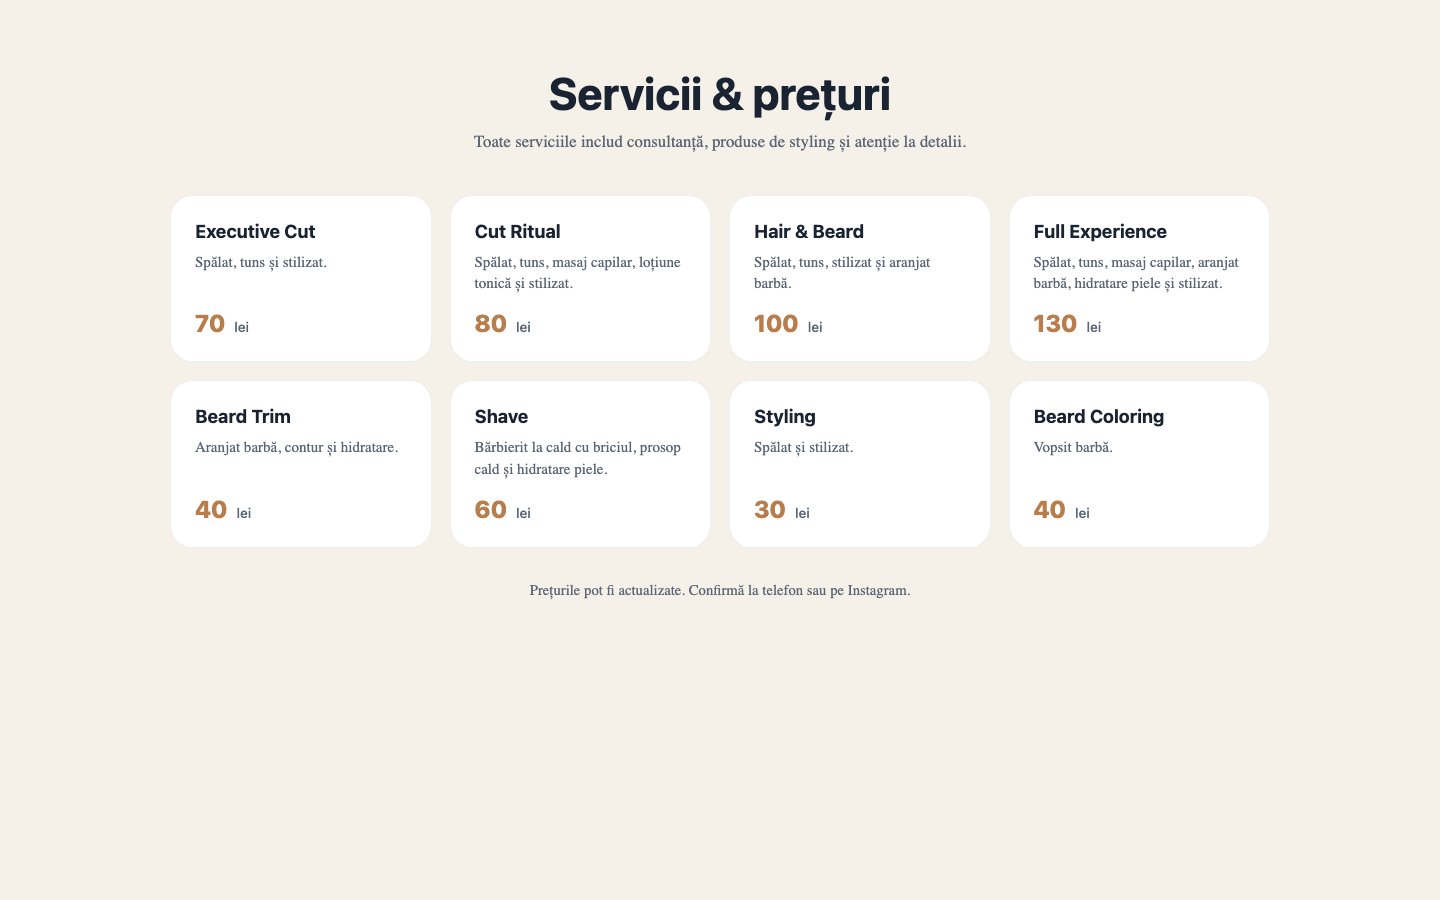
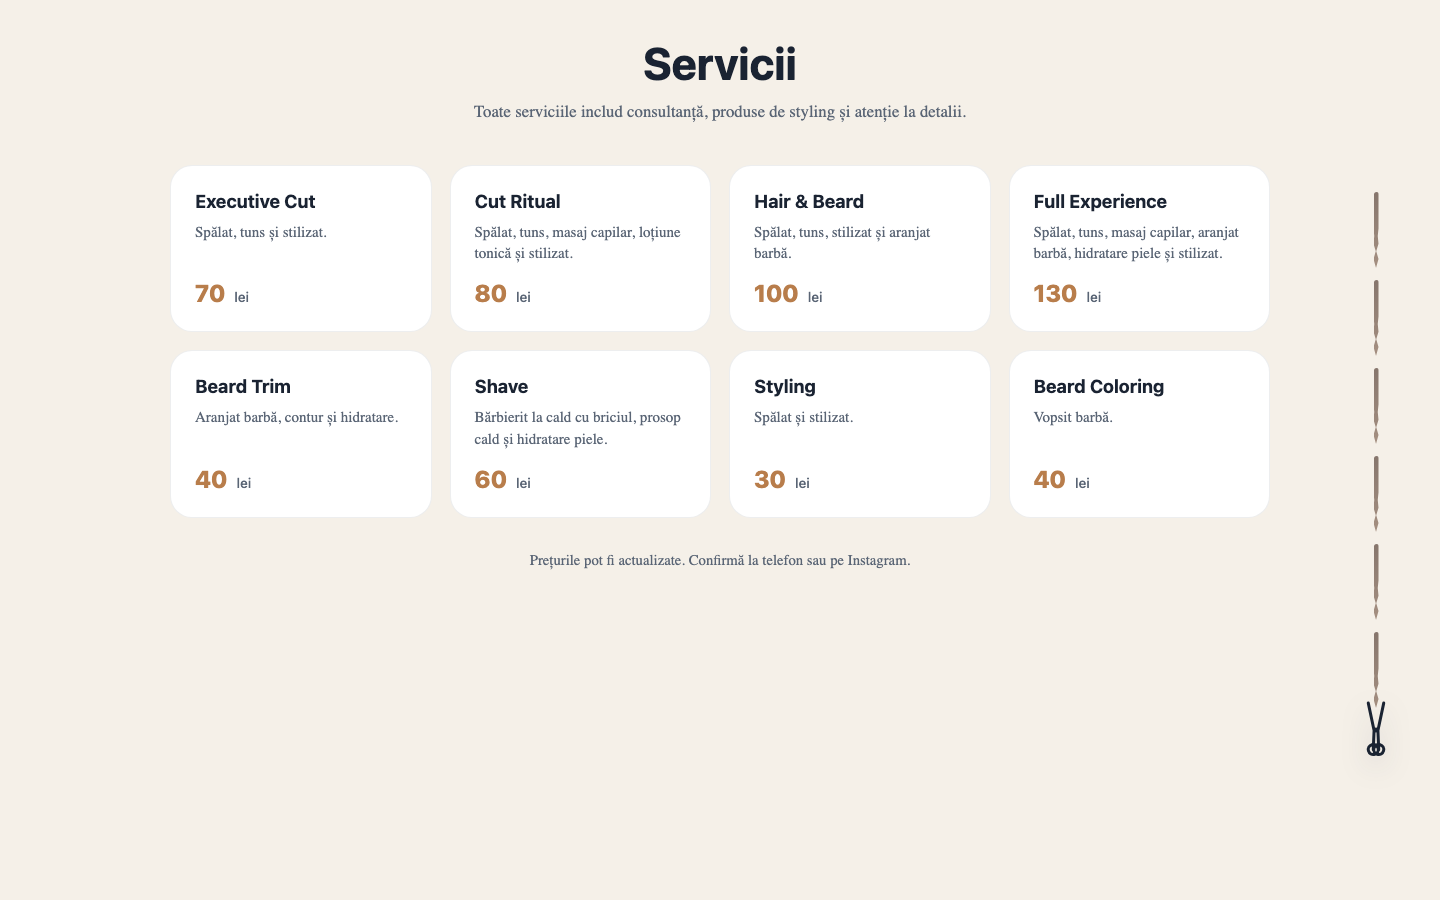
feat(scrub-engine): înlocuiește rail-ul cu foarfecă + fire de păr
- adaugă .sw-scissors-rail cu SVG foarfecă și 6 fire de păr
- foarfeca coboară la scroll și face animație de tăiere la schimbarea secțiunii
- firele sunt tăiate progresiv pe măsură ce avansează scroll-ul
- fix overlay text ultimă scenă peste secțiunea #servicii
- titlu secțiune servicii devine „Servicii”
- actualizează screenshot-urile QA

diff --git a/scripts/scrub-engine.js b/scripts/scrub-engine.js
@@ -122,13 +122,34 @@ function mountScrollWorld(container, config) {
 
   const stage = el('div', 'sw-stage');
   const copylayer = el('div', 'sw-copylayer');
-  const route = el('div', 'sw-route');
+  const scissorsRail = el('div', 'sw-scissors-rail');
+  const scissors = el('div', 'sw-scissors');
+  scissors.innerHTML = `
+    <svg viewBox="0 0 40 72" fill="none" stroke="currentColor" stroke-width="3" stroke-linecap="round" stroke-linejoin="round" aria-hidden="true">
+      <g class="sw-scissors__blade sw-scissors__blade--top">
+        <circle cx="12" cy="54" r="5"/>
+        <path d="M12 54 L18 36 L20 8"/>
+      </g>
+      <g class="sw-scissors__blade sw-scissors__blade--bottom">
+        <circle cx="28" cy="54" r="5"/>
+        <path d="M28 54 L22 36 L20 8"/>
+      </g>
+      <circle cx="20" cy="36" r="2.5" fill="currentColor" stroke="none"/>
+    </svg>`;
+  const hairs = el('div', 'sw-hairs');
+  const hairEls = [];
+  SECTIONS.forEach(() => {
+    const h = el('div', 'sw-hair');
+    hairs.appendChild(h); hairEls.push(h);
+  });
+  scissorsRail.appendChild(hairs); scissorsRail.appendChild(scissors);
+
   const hint = el('div', 'sw-hint');
   const hintText = el('span'); hintText.textContent = config.hint || 'scroll'; hint.appendChild(hintText);
   hint.appendChild(el('i'));
   const track = el('div', 'sw-track');
 
-  [sky, scrollbar, topbar, stage, copylayer, route, hint, track].forEach(n => container.appendChild(n));
+  [sky, scrollbar, topbar, stage, copylayer, scissorsRail, hint, track].forEach(n => container.appendChild(n));
 
   // segment scenes
   SEGMENTS.forEach(s => {
@@ -140,8 +161,8 @@ function mountScrollWorld(container, config) {
     s.loading = false; s.ready = false; s.cur = 0; s.target = 0; s.visible = false;
   });
 
-  // per-section copy / route / nav
-  const copies = [], dots = [];
+  // per-section copy / nav / hairs
+  const copies = [];
   SECTIONS.forEach((s, i) => {
     const c = el('article', 'sw-copy'); c.style.setProperty('--sw-accent', s.accent || '');
     c.innerHTML =
@@ -152,10 +173,6 @@ function mountScrollWorld(container, config) {
       (s.tags && s.tags.length ? `<ul class="sw-copy__tags">${s.tags.map(t => `<li>${esc(t)}</li>`).join('')}</ul>` : '') +
       (s.cta ? `<div class="sw-copy__cta">${ctaBtns(s.cta)}</div>` : '');
     copylayer.appendChild(c); copies.push(c);
-
-    const dot = el('button', 'sw-route__dot'); dot.style.setProperty('--sw-accent', s.accent || '');
-    dot.innerHTML = `<span class="sw-route__label">${esc(s.label || '')}</span><i></i>`;
-    dot.addEventListener('click', () => jumpTo(i)); route.appendChild(dot); dots.push(dot);
 
     if (config.nav !== false) {
       const b = el('button', 'sw-nav__item'); b.textContent = s.label || '';
@@ -252,13 +269,22 @@ function mountScrollWorld(container, config) {
     const cur = SEGMENTS[ci];
     const near = clamp(cur.kind === 'dive' ? cur.si
       : (((y - cur.start) / (cur.end - cur.start)) > 0.5 ? cur.si + 1 : cur.si), 0, N - 1);
+    const scrollProgress = clamp(y / (totalW * vh), 0, 1);
+    const railH = scissorsRail.offsetHeight || 1;
+    const scissorsY = scrollProgress * railH;
+    scissors.style.transform = `translateY(${scissorsY}px)`;
     if (near !== activeIndex) {
       activeIndex = near;
-      dots.forEach((d, k) => d.classList.toggle('is-active', k === near));
+      hairEls.forEach((h, k) => h.classList.toggle('sw-hair--cut', k <= near));
       nav.querySelectorAll('.sw-nav__item').forEach((n, k) => n.classList.toggle('is-active', k === near));
       container.style.setProperty('--sw-accent', SECTIONS[near].accent || '');
+      if (!reduce) {
+        scissors.classList.add('is-snipping');
+        clearTimeout(scissors._snipTimer);
+        scissors._snipTimer = setTimeout(() => scissors.classList.remove('is-snipping'), 260);
+      }
     }
-    scrollbarFill.style.transform = `scaleX(${clamp(y / (totalW * vh))})`;
+    scrollbarFill.style.transform = `scaleX(${scrollProgress})`;
     hint.style.opacity = clamp(1 - y / (0.5 * vh));
     if (particles) particles.style.transform = `translate3d(0, ${-y * 0.05}px, 0)`;
     ticking = false;
@@ -391,14 +417,17 @@ function injectCSS() {
   .sw-btn{text-decoration:none;font-weight:600;font-size:.95rem;padding:13px 24px;border-radius:999px;transition:transform .2s;}
   .sw-btn--primary{color:#fff;background:var(--sw-ink);} .sw-btn--primary:hover{transform:translateY(-2px);}
   .sw-btn--ghost{color:var(--sw-ink);border:1.5px solid color-mix(in srgb,var(--sw-ink) 25%,transparent);} .sw-btn--ghost:hover{transform:translateY(-2px);}
-  .sw-route{position:fixed;right:clamp(14px,2.4vw,30px);top:50%;z-index:40;transform:translateY(-50%);display:flex;flex-direction:column;gap:22px;padding:18px 10px;}
-  .sw-route::before{content:"";position:absolute;left:50%;top:22px;bottom:22px;width:2px;transform:translateX(-50%);background:var(--sw-accent);opacity:.28;}
-  .sw-route__dot{position:relative;border:0;background:transparent;cursor:pointer;width:14px;height:14px;display:grid;place-items:center;}
-  .sw-route__dot i{width:9px;height:9px;border-radius:50%;background:color-mix(in srgb,var(--sw-accent) 40%,transparent);transition:transform .3s,background .3s,box-shadow .3s;}
-  .sw-route__dot:hover i{transform:scale(1.25);background:var(--sw-accent);}
-  .sw-route__dot.is-active i{background:var(--sw-accent);transform:scale(1.4);box-shadow:0 0 0 5px color-mix(in srgb,var(--sw-accent) 22%,transparent);}
-  .sw-route__label{position:absolute;right:24px;top:50%;transform:translateY(-50%) translateX(6px);white-space:nowrap;font-size:.78rem;font-weight:600;color:var(--sw-ink);background:color-mix(in srgb,#fff 85%,transparent);backdrop-filter:blur(6px);padding:5px 11px;border-radius:999px;opacity:0;pointer-events:none;transition:opacity .25s,transform .25s;border:1px solid color-mix(in srgb,var(--sw-accent) 14%,transparent);}
-  .sw-route__dot:hover .sw-route__label,.sw-route__dot.is-active .sw-route__label{opacity:1;transform:translateY(-50%) translateX(0);}
+  .sw-scissors-rail{position:fixed;right:clamp(18px,3vw,40px);top:50%;z-index:110;transform:translateY(-50%);height:min(72vh,560px);width:48px;pointer-events:none;}
+  .sw-hairs{position:absolute;inset:0;display:flex;flex-direction:column;justify-content:space-between;align-items:center;padding:16px 0;}
+  .sw-hair{width:5px;flex:1 1 auto;margin:6px 0;border-radius:999px;background:linear-gradient(180deg,#4a342a 0%,#7a5c4a 100%);opacity:.9;transition:clip-path .35s ease,opacity .35s ease;transform-origin:top center;}
+  .sw-hair--cut{clip-path:polygon(0 0,100% 0,100% 48%,85% 58%,100% 68%,55% 78%,100% 88%,50% 100%,0 88%,45% 78%,0 68%,15% 58%,0 48%);opacity:.65;}
+  .sw-scissors{position:absolute;top:0;left:50%;width:40px;height:72px;margin:-36px 0 0 -20px;color:var(--sw-ink);transform:translateY(0);transition:transform .08s linear;filter:drop-shadow(0 8px 14px color-mix(in srgb,var(--sw-ink) 18%,transparent));pointer-events:auto;}
+  .sw-scissors svg{display:block;width:100%;height:100%;}
+  .sw-scissors__blade--top,.sw-scissors__blade--bottom{transform-origin:20px 36px;transition:transform .18s cubic-bezier(.34,1.56,.64,1);}
+  .sw-scissors__blade--top{transform:rotate(-16deg);}
+  .sw-scissors__blade--bottom{transform:rotate(16deg);}
+  .sw-scissors.is-snipping .sw-scissors__blade--top{transform:rotate(4deg);}
+  .sw-scissors.is-snipping .sw-scissors__blade--bottom{transform:rotate(-4deg);}
   .sw-hint{position:fixed;left:50%;bottom:26px;z-index:30;transform:translateX(-50%);display:flex;flex-direction:column;align-items:center;gap:10px;font-size:.76rem;letter-spacing:.14em;text-transform:uppercase;color:var(--sw-ink-soft);transition:opacity .3s;}
   .sw-hint i{width:22px;height:34px;border-radius:12px;border:2px solid color-mix(in srgb,var(--sw-ink) 28%,transparent);position:relative;}
   .sw-hint i::after{content:"";position:absolute;left:50%;top:7px;width:4px;height:7px;border-radius:2px;background:var(--sw-accent);transform:translateX(-50%);animation:sw-wheel 1.7s ease-in-out infinite;}
@@ -414,17 +443,19 @@ function injectCSS() {
     .sw-copy__title{font-size:clamp(1.9rem,7.5vw,2.7rem);}
     .sw-copy__body{max-width:none;font-size:clamp(.98rem,3.6vw,1.1rem);} .sw-scene__video,.sw-scene__still{object-position:center 46%;}
     .sw-hint{bottom:calc(20px + env(safe-area-inset-bottom));}
-    .sw-route{gap:16px;right:6px;} .sw-route__label{display:none;}
+    .sw-scissors-rail{right:10px;height:min(62vh,420px);width:38px;}
+    .sw-scissors{width:32px;height:58px;margin:-29px 0 0 -16px;}
+    .sw-hair{width:4px;}
   }
   /* Portrait phones crop a 16:9 clip hard; keep the framing centred so the focal
      subject (which the camera dives toward) stays in view. */
   @media (max-width:860px) and (orientation:portrait){
     .sw-scene__video,.sw-scene__still{object-position:center 44%;}
   }
-  /* Touch: give the route dots a finger-sized hit area without growing the visible dot. */
+  /* Touch: keep the scissors rail easy to see without eating tap targets. */
   @media (hover:none) and (pointer:coarse){
-    .sw-route{padding:14px 6px;}
-    .sw-route__dot{width:28px;height:28px;}
+    .sw-scissors-rail{padding:14px 6px;}
+    .sw-scissors{width:36px;height:64px;margin:-32px 0 0 -18px;}
     .sw-btn{padding:15px 26px;}
   }
   @media (prefers-reduced-motion:reduce){ .sw-hint i::after{animation:none;} .sw-pt{display:none;} }

diff --git a/index.html b/index.html
@@ -71,10 +71,19 @@
     /* Services section */
     .services-section {
       position: relative; z-index: 100;
+      isolation: isolate;
       background: var(--sw-bg);
-      padding: clamp(60px, 10vw, 110px) clamp(18px, 6vw, 80px);
+      padding: clamp(80px, 12vw, 140px) clamp(18px, 6vw, 80px);
       min-height: 100vh;
       display: flex; flex-direction: column; justify-content: center;
+      box-shadow: 0 -90px 120px 70px var(--sw-bg);
+    }
+    .services-section::before {
+      content: "";
+      position: absolute;
+      left: 0; right: 0; top: -80px; height: 80px;
+      background: var(--sw-bg);
+      z-index: -1;
     }
     .services-section__head { max-width: 720px; margin: 0 auto 44px; text-align: center; }
     .services-section__head h2 { font-family: var(--sw-font-display); font-size: clamp(1.9rem, 4vw, 2.8rem); margin: 0 0 12px; color: var(--sw-ink); }
@@ -141,7 +150,7 @@
   <!-- Services / Prices section -->
   <section id="servicii" class="services-section">
     <div class="services-section__head">
-      <h2>Servicii & prețuri</h2>
+      <h2>Servicii</h2>
       <p>Toate serviciile includ consultanță, produse de styling și atenție la detalii.</p>
     </div>
     <div class="services-grid">